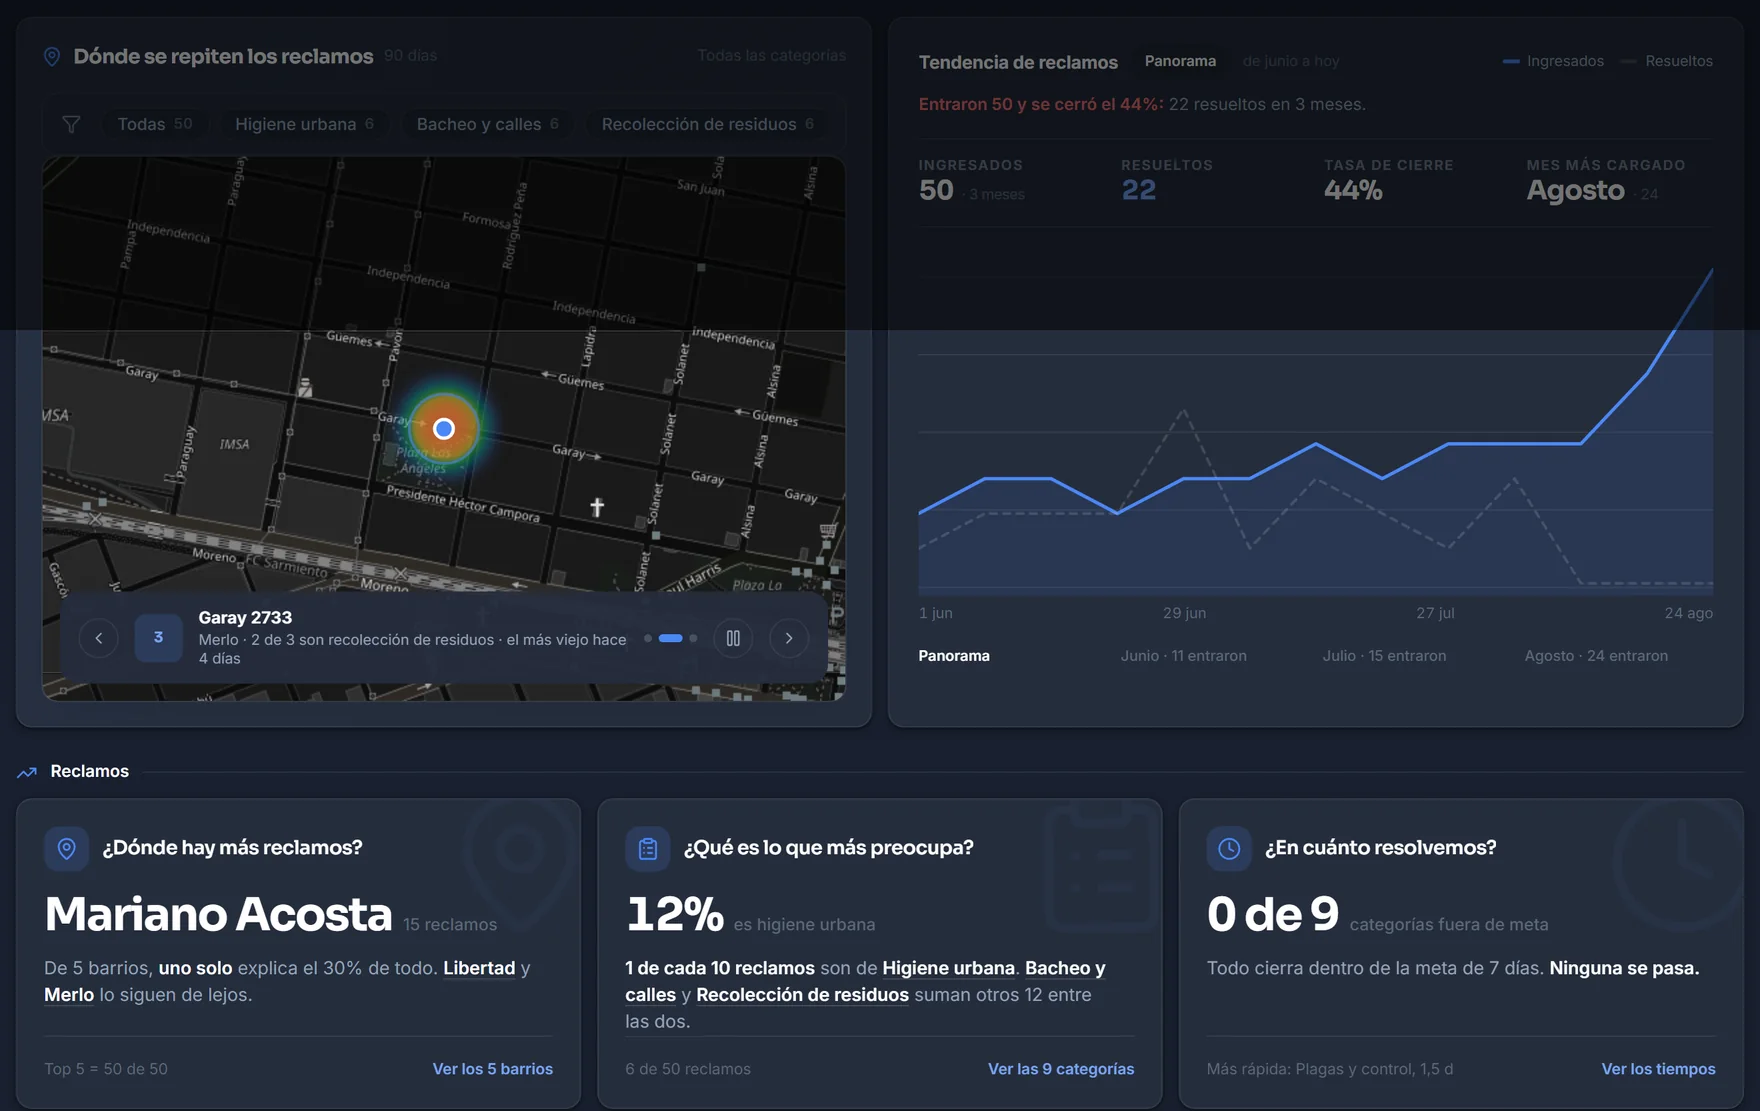
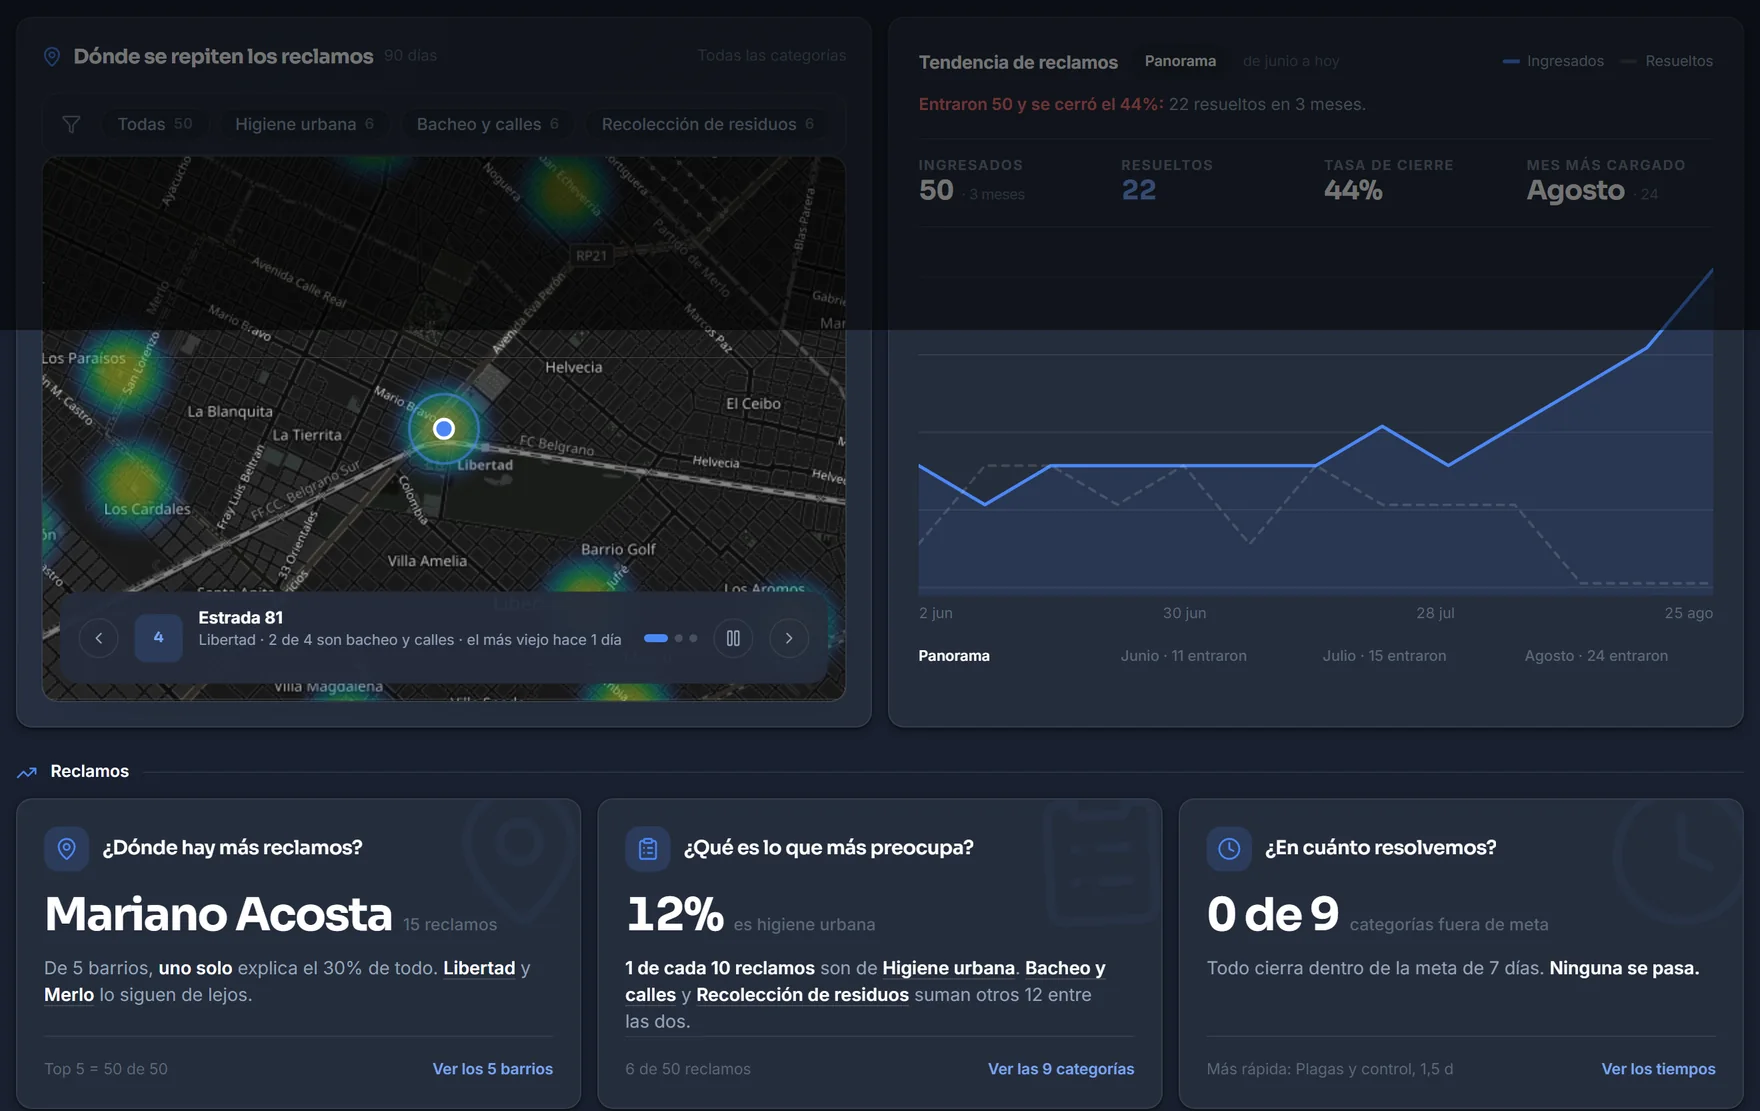
feat: en la seccion del intendente va el panel real, no un dibujo del panel
Ese carrusel eran tres slides pintados en HTML con numeros inventados —18
urgentes, 125 sin asignar, 1365 reclamos, "B San Roque, 347 reclamos"— y un
mapa de calor hecho con degradados de CSS. Al lado de la foto del producto
quedaba peor que no tener nada: un dibujo del panel arriba del panel. Y algo
mas serio: eran cifras plausibles presentadas como si fueran de un municipio.

Queda la captura del panel de la demo de Merlo, ahora con el mapa mostrando
TODOS los focos de calor del municipio y no zoomeado en uno solo (el recorrido
del mapa hace zoom foco por foco; la vista completa dura el instante en que se
pide "Todas", y ahi se fotografia).

El SEO no se resiente: las ~190 palabras del carrusel se reemplazan por los
tres titulares del panel escritos en HTML —el mismo contenido que muestra la
foto, indexable, sin cifras inventadas— mas el alt de la imagen. Los H2 de la
seccion quedan intactos, que son los que rankean.

El JS del carrusel se deja: itera una lista vacia y no rompe.

Verificado en notebook y telefono: sin errores, sin desborde, imagen cargando.

diff --git a/index.html b/index.html
@@ -514,124 +514,22 @@
     <figcaption>El panel tal cual lo ve el intendente. Los datos son los de una demo; en la tuya son los de tu municipio.</figcaption>
 </figure>
 
-<section class="carru reveal" data-carru>
-    <div class="carru__stage">
-        <!-- Slide 1 · Prioridades del día -->
-        <div class="carru__slide is-on" data-slide>
-            <div class="carru__k">01 · Prioridades del día</div>
-            <div class="k3">
-                <div class="kcard kcard--bad">
-                    <div class="kcard__h"><span class="kcard__ico" style="background:rgba(229,72,77,0.18); color:var(--bad-bright)"><svg width="14" height="14" viewBox="0 0 24 24" fill="none" stroke="currentColor" stroke-width="2" stroke-linecap="round" stroke-linejoin="round"><circle cx="12" cy="12" r="10"></circle><polyline points="12 6 12 12 16 14"></polyline></svg></span>Urgentes</div>
-                    <div class="kcard__n">18</div>
-                    <div class="kcard__s">reclamos vencidos, prioridad alta</div>
-                    <div class="kcard__a" style="color:var(--bad-bright)">Asignar cuadrilla →</div>
-                </div>
-                <div class="kcard kcard--warn">
-                    <div class="kcard__h"><span class="kcard__ico" style="background:rgba(255,184,0,0.15); color:var(--warn)"><svg width="14" height="14" viewBox="0 0 24 24" fill="none" stroke="currentColor" stroke-width="2" stroke-linecap="round" stroke-linejoin="round"><path d="M20 21v-2a4 4 0 0 0-4-4H8a4 4 0 0 0-4 4v2"></path><circle cx="12" cy="7" r="4"></circle></svg></span>Sin asignar</div>
-                    <div class="kcard__n">125</div>
-                    <div class="kcard__s">reclamos sin dueño todavía</div>
-                    <div class="kcard__a" style="color:var(--warn)">Asignar en lote →</div>
-                </div>
-                <div class="kcard kcard--ok">
-                    <div class="kcard__h"><span class="kcard__ico" style="background:var(--accent-soft); color:var(--accent)"><svg width="14" height="14" viewBox="0 0 24 24" fill="none" stroke="currentColor" stroke-width="2" stroke-linecap="round" stroke-linejoin="round"><polyline points="20 6 9 17 4 12"></polyline></svg></span>Para cerrar</div>
-                    <div class="kcard__n">9</div>
-                    <div class="kcard__s">la cuadrilla terminó y subió fotos</div>
-                    <div class="kcard__a" style="color:var(--accent)">Revisar y cerrar →</div>
-                </div>
-            </div>
-            <div class="colatrab">
-                <span>152 reclamos esperan una decisión tuya · cerraste 12 esta semana</span>
-                <span style="color:var(--accent); font-weight:600">Ver cola de trabajo →</span>
-            </div>
-        </div>
-
-        <!-- Slide 2 · Mapa de calor -->
-        <div class="carru__slide" data-slide>
-            <div class="carru__k">02 · Dónde se repiten los reclamos</div>
-            <div class="heat">
-                <div class="heat__top">
-                    <div>
-                        <div class="heat__t">Mapa de calor</div>
-                        <div class="heat__s">Últimos 90 días · por categoría</div>
-                    </div>
-                    <div class="heat__chips">
-                        <span class="heat__chip heat__chip--on">Todas 1365</span>
-                        <span class="heat__chip">Alumbrado 145</span>
-                        <span class="heat__chip">Bacheo 144</span>
-                    </div>
-                </div>
-                <div class="heat__map">
-                    <svg width="100%" height="100%" viewBox="0 0 560 250" preserveAspectRatio="xMidYMid slice">
-                        <rect width="560" height="250" fill="var(--card-inner)"></rect>
-                        <g stroke="#2A3D66" stroke-width="5" opacity="0.95"><line x1="0" y1="52" x2="560" y2="40"></line><line x1="0" y1="118" x2="560" y2="108"></line><line x1="0" y1="188" x2="560" y2="178"></line><line x1="70" y1="0" x2="86" y2="250"></line><line x1="180" y1="0" x2="192" y2="250"></line><line x1="300" y1="0" x2="308" y2="250"></line><line x1="420" y1="0" x2="430" y2="250"></line><line x1="0" y1="230" x2="560" y2="60"></line></g>
-                        <g stroke="#22335A" stroke-width="2" opacity="0.9"><line x1="0" y1="85" x2="560" y2="76"></line><line x1="0" y1="152" x2="560" y2="144"></line><line x1="125" y1="0" x2="136" y2="250"></line><line x1="240" y1="0" x2="250" y2="250"></line><line x1="360" y1="0" x2="368" y2="250"></line><line x1="490" y1="0" x2="498" y2="250"></line></g>
-                        <path d="M470 0 L560 90 L560 250 L500 250 Z" fill="rgba(40,200,64,0.15)"></path>
-                        <text x="120" y="30" font-size="10" font-weight="600" fill="#46587F" letter-spacing="1">AV. SAN MARTÍN</text>
-                        <text x="330" y="170" font-size="10" font-weight="600" fill="#46587F" letter-spacing="1">AV. MITRE</text>
-                        <text x="505" y="235" font-size="9" font-weight="600" fill="#3E7A54" letter-spacing="1">PARQUE</text>
-                    </svg>
-                    <div class="blob" style="left:8%; top:18%; width:190px; height:150px; background:radial-gradient(closest-side, rgba(229,72,77,0.8) 0%, rgba(239,120,60,0.6) 35%, rgba(245,158,11,0.4) 55%, rgba(91,227,138,0.2) 75%, transparent 100%)"></div>
-                    <div class="blob" style="left:36%; top:42%; width:130px; height:110px; background:radial-gradient(closest-side, rgba(239,120,60,0.75) 0%, rgba(245,158,11,0.45) 45%, rgba(91,227,138,0.2) 72%, transparent 100%)"></div>
-                    <div class="blob" style="left:62%; top:8%; width:120px; height:100px; background:radial-gradient(closest-side, rgba(245,158,11,0.65) 0%, rgba(212,196,80,0.35) 50%, rgba(91,227,138,0.18) 75%, transparent 100%)"></div>
-                    <div class="blob" style="left:55%; top:58%; width:90px; height:80px; background:radial-gradient(closest-side, rgba(91,227,138,0.4) 0%, rgba(91,227,138,0.15) 60%, transparent 100%)"></div>
-                    <div class="heat__pin"></div>
-                    <div class="heat__cap"><span style="width:8px; height:8px; border-radius:999px; background:#FF5F57"></span> B° San Roque · 347 reclamos · el 25% del total</div>
-                    <div class="heat__leg"><span>Menos</span><span class="heat__ramp"></span><span>Más</span></div>
-                </div>
-            </div>
-        </div>
-
-        <!-- Slide 3 · Tendencia y analítica -->
-        <div class="carru__slide" data-slide>
-            <div class="carru__k">03 · Tendencia y analítica</div>
-            <div class="tend">
-                <div class="tend__card">
-                    <div class="heat__t">Tendencia del mes</div>
-                    <div class="heat__s" style="margin-bottom:14px">Ingresados vs. resueltos · junio</div>
-                    <div class="tend__mini">
-                        <div class="tend__box" style="background:rgba(63,106,200,0.15)"><div class="tend__bn" style="color:var(--accent-bright)">188</div><div class="tend__bl">ingresados</div></div>
-                        <div class="tend__box" style="background:var(--accent-soft)"><div class="tend__bn">135</div><div class="tend__bl">resueltos</div></div>
-                        <div class="tend__box" style="background:var(--accent-soft)"><div class="tend__bn" style="color:var(--accent)">72%</div><div class="tend__bl" style="color:var(--accent)">tasa de cierre</div></div>
-                    </div>
-                    <div class="tend__bars">
-                        <div class="tend__bar" style="height:34%"></div>
-                        <div class="tend__bar" style="height:52%"></div>
-                        <div class="tend__bar" style="height:40%"></div>
-                        <div class="tend__bar" style="height:68%; background:rgba(143,178,255,0.45)"></div>
-                        <div class="tend__bar" style="height:55%; background:rgba(143,178,255,0.45)"></div>
-                        <div class="tend__bar" style="height:82%; background:var(--accent-blue)"></div>
-                        <div class="tend__bar" style="height:100%; background:var(--accent)"></div>
-                    </div>
-                    <div style="margin-top:10px; font:400 12px/1.5 var(--font-body); color:var(--muted)">1 de cada 10 reclamos es de alumbrado público. Bacheo e higiene urbana suman otros 282.</div>
-                </div>
-
-                <div class="tend__card" style="justify-content:space-between">
-                    <div>
-                        <div class="heat__t">¿Dónde hay más reclamos?</div>
-                        <div class="heat__s" style="margin-bottom:14px">Analítica por barrio · top 3</div>
-                        <div style="font:600 30px var(--font-display); color:var(--ink)">San Roque</div>
-                        <div style="font:500 13px var(--font-body); color:var(--muted); margin-top:2px">347 reclamos · un solo barrio explica el 25% del total</div>
-                    </div>
-                    <div style="display:flex; flex-direction:column; gap:8px; margin-top:16px">
-                        <div class="rank"><span class="rank__l">San Roque</span><span class="rank__t"><span class="rank__f" style="width:86%; background:var(--accent)"></span></span></div>
-                        <div class="rank"><span class="rank__l">La Recoleta</span><span class="rank__t"><span class="rank__f" style="width:52%; background:var(--accent-blue)"></span></span></div>
-                        <div class="rank"><span class="rank__l">Encarnación</span><span class="rank__t"><span class="rank__f" style="width:38%; background:var(--accent-bright)"></span></span></div>
-                    </div>
-                    <div style="margin-top:14px; background:var(--accent-soft); border-radius:var(--r-control); padding:12px 14px; font:400 12px/1.5 var(--font-body); color:var(--muted)">2 de 17 categorías fuera de meta: solo Recolección de residuos tarda más de 7 días.</div>
-                </div>
-            </div>
-        </div>
+<div class="panelreal__que reveal">
+    <div class="pq">
+        <h3>Dónde se repiten los reclamos</h3>
+        <p>El mapa de calor muestra en qué esquinas vuelve a pasar lo mismo. No es un listado: es la ciudad con sus focos marcados.</p>
     </div>
-
-    <div class="carru__nav">
-        <div class="carru__dots" data-dots></div>
-        <div class="carru__arrows">
-            <button type="button" class="carru__arrow" data-prev aria-label="Anterior"><svg width="16" height="16" viewBox="0 0 24 24" fill="none" stroke="currentColor" stroke-width="2" stroke-linecap="round" stroke-linejoin="round"><polyline points="15 18 9 12 15 6"></polyline></svg></button>
-            <button type="button" class="carru__arrow carru__arrow--next" data-next aria-label="Siguiente"><svg width="16" height="16" viewBox="0 0 24 24" fill="none" stroke="currentColor" stroke-width="2" stroke-linecap="round" stroke-linejoin="round"><polyline points="9 18 15 12 9 6"></polyline></svg></button>
-        </div>
+    <div class="pq">
+        <h3>Qué es lo que más preocupa</h3>
+        <p>Qué categoría explica la mayor parte de los reclamos, y cuáles vienen atrás. Para decidir dónde poner la cuadrilla.</p>
     </div>
-    <div class="carru__note">Vista simplificada del panel real. En la demo lo ves con los datos de tu municipio.</div>
-</section>
+    <div class="pq">
+        <h3>En cuánto se resuelve</h3>
+        <p>Cuántas categorías se pasan de la meta y cuáles cierran a tiempo, con el promedio de días de cada una.</p>
+    </div>
+</div>
+
+
 
 <!-- ============ 04 · Planes ============ -->
 <section class="planes reveal" id="precios">

diff --git a/css/munify-theme.css b/css/munify-theme.css
@@ -1503,3 +1503,19 @@ input, select, textarea { font-size: 16px; }
   .panelreal { padding: 0 14px; }
   .panelreal figcaption { font-size: 12px; }
 }
+
+/* Lo que el panel dice, en texto: el mismo contenido que muestra la captura,
+   legible para quien no ve la imagen y para el buscador. Reemplaza al
+   carrusel de slides pintados a mano. */
+.panelreal__que {
+  max-width: 1240px; margin: 26px auto 0; padding: 0 20px;
+  display: grid; grid-template-columns: repeat(3, 1fr); gap: 22px;
+}
+.panelreal__que .pq h3 {
+  margin: 0 0 6px; font-size: 16px; font-weight: 600; letter-spacing: -0.01em;
+  color: var(--ink);
+}
+.panelreal__que .pq p { margin: 0; font-size: 14px; line-height: 1.6; color: var(--ink-2); }
+@media (max-width: 860px) {
+  .panelreal__que { grid-template-columns: 1fr; gap: 16px; padding: 0 14px; }
+}
